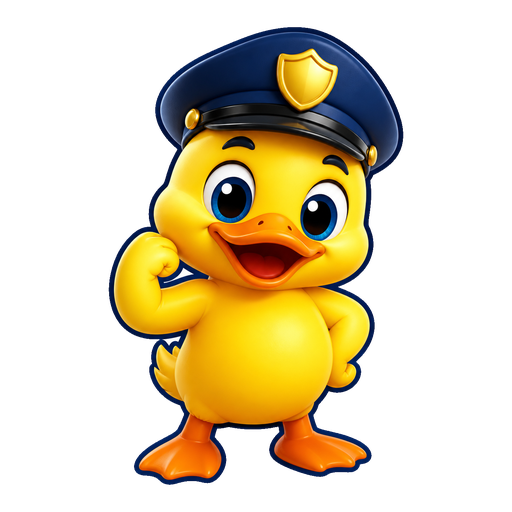
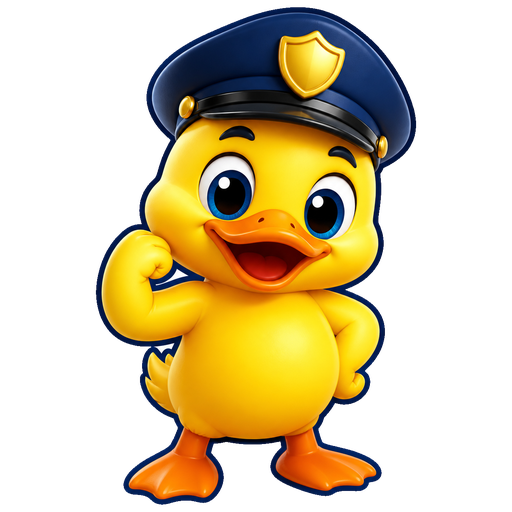
police: 마스코트를 68px로 키우고 그림 여백을 줄여 56px 화면에서도 또렷하게

Changed region(s): [[0.1875, 0.0, 0.8125, 1.0]]

diff --git a/police/style.css b/police/style.css
@@ -250,7 +250,7 @@ button{font-family:inherit;font-size:inherit;color:inherit;border:0;background:n
 /* 마스코트 + 말풍선 */
 .mascot-row{display:flex;align-items:center;gap:10px;margin:-2px 0 12px;min-width:0}
 /* 뱃지형 광 — 이미지가 늦게 떠도 자리가 비어 보이지 않게 (filter·클리핑 없이) */
-.mascot-box{flex:0 0 auto;width:64px;height:64px;position:relative;display:block;animation:bob 3.2s ease-in-out infinite;will-change:transform}
+.mascot-box{flex:0 0 auto;width:68px;height:68px;position:relative;display:block;animation:bob 3.2s ease-in-out infinite;will-change:transform}
 .mascot-box::before{content:"";position:absolute;left:-14%;top:-14%;width:128%;height:128%;border-radius:50%;z-index:0;
   background:radial-gradient(circle at 50% 42%,rgba(110,139,255,.34),rgba(110,139,255,.12) 52%,rgba(110,139,255,0) 72%)}
 .mascot{position:relative;z-index:1;width:100%;height:100%;display:block;object-fit:contain;-webkit-user-drag:none;user-select:none}
@@ -366,7 +366,7 @@ body.speed #qPrev{display:none}
 
 @media(max-width:360px){
   .ql-val{min-width:64px;font-size:10px}
-  .mascot-box{width:54px;height:54px}
+  .mascot-box{width:56px;height:56px}
   .dday-info i{font-size:10.5px}
 }
 
@@ -667,7 +667,7 @@ body{background:var(--bg);color:var(--ink)}
 .bubble::before{background:var(--c-soft);border-left:1px solid var(--line2);border-bottom:1px solid var(--line2)}
 @media(max-width:400px){
   .mascot-row{gap:8px}
-  .mascot-box{width:56px;height:56px}
+  .mascot-box{width:60px;height:60px}
   .bubble{font-size:12px;padding:10px 12px;line-height:1.55}
 }
 

diff --git a/police/index.html b/police/index.html
@@ -13,7 +13,7 @@
 <link rel="manifest" href="manifest.webmanifest">
 <link rel="apple-touch-icon" href="icon-180.png">
 <link rel="icon" href="icon.svg" type="image/svg+xml">
-<link rel="stylesheet" href="style.css?v=2026111922">
+<link rel="stylesheet" href="style.css?v=2026111935">
 </head>
 <body>
 
@@ -65,7 +65,7 @@
 
   <section class="hero" id="hero">
     <div class="mascot-row">
-      <span class="mascot-box"><img class="mascot" src="assets/mascot-happy.png?v=2026111922" width="64" height="64" alt="경찰 오리 마스코트" decoding="async"></span>
+      <span class="mascot-box"><img class="mascot" src="assets/mascot-happy.png?v=2026111935" width="68" height="68" alt="경찰 오리 마스코트" decoding="async"></span>
       <div class="bubble">
         <p class="bub-lead" id="homeBubble">오늘 몫은 오늘 끝내는 게 제일 싸요.</p>
         <div class="bub-memo"><span class="bm-k">오늘의 암기</span><b id="bubMemo">—</b></div>
@@ -370,7 +370,7 @@
   <div class="ox-body" id="oxBody"></div>
 </div>
 
-<script src="data.js?v=2026111922"></script>
-<script src="app.js?v=2026111922"></script>
+<script src="data.js?v=2026111935"></script>
+<script src="app.js?v=2026111935"></script>
 </body>
 </html>

diff --git a/police/app.js b/police/app.js
@@ -1161,7 +1161,7 @@ window.addEventListener('unhandledrejection', function (e) { try { window.__poli
   }
 
   /* ---------- mascot ---------- */
-  var MV = '2026111922';
+  var MV = '2026111935';
   /* 순경 공채(2027-08-21)·지텔프(2026-11-29) 목표에 맞춘 현실 자극 문구 */
   var MOT = {
     done: [
